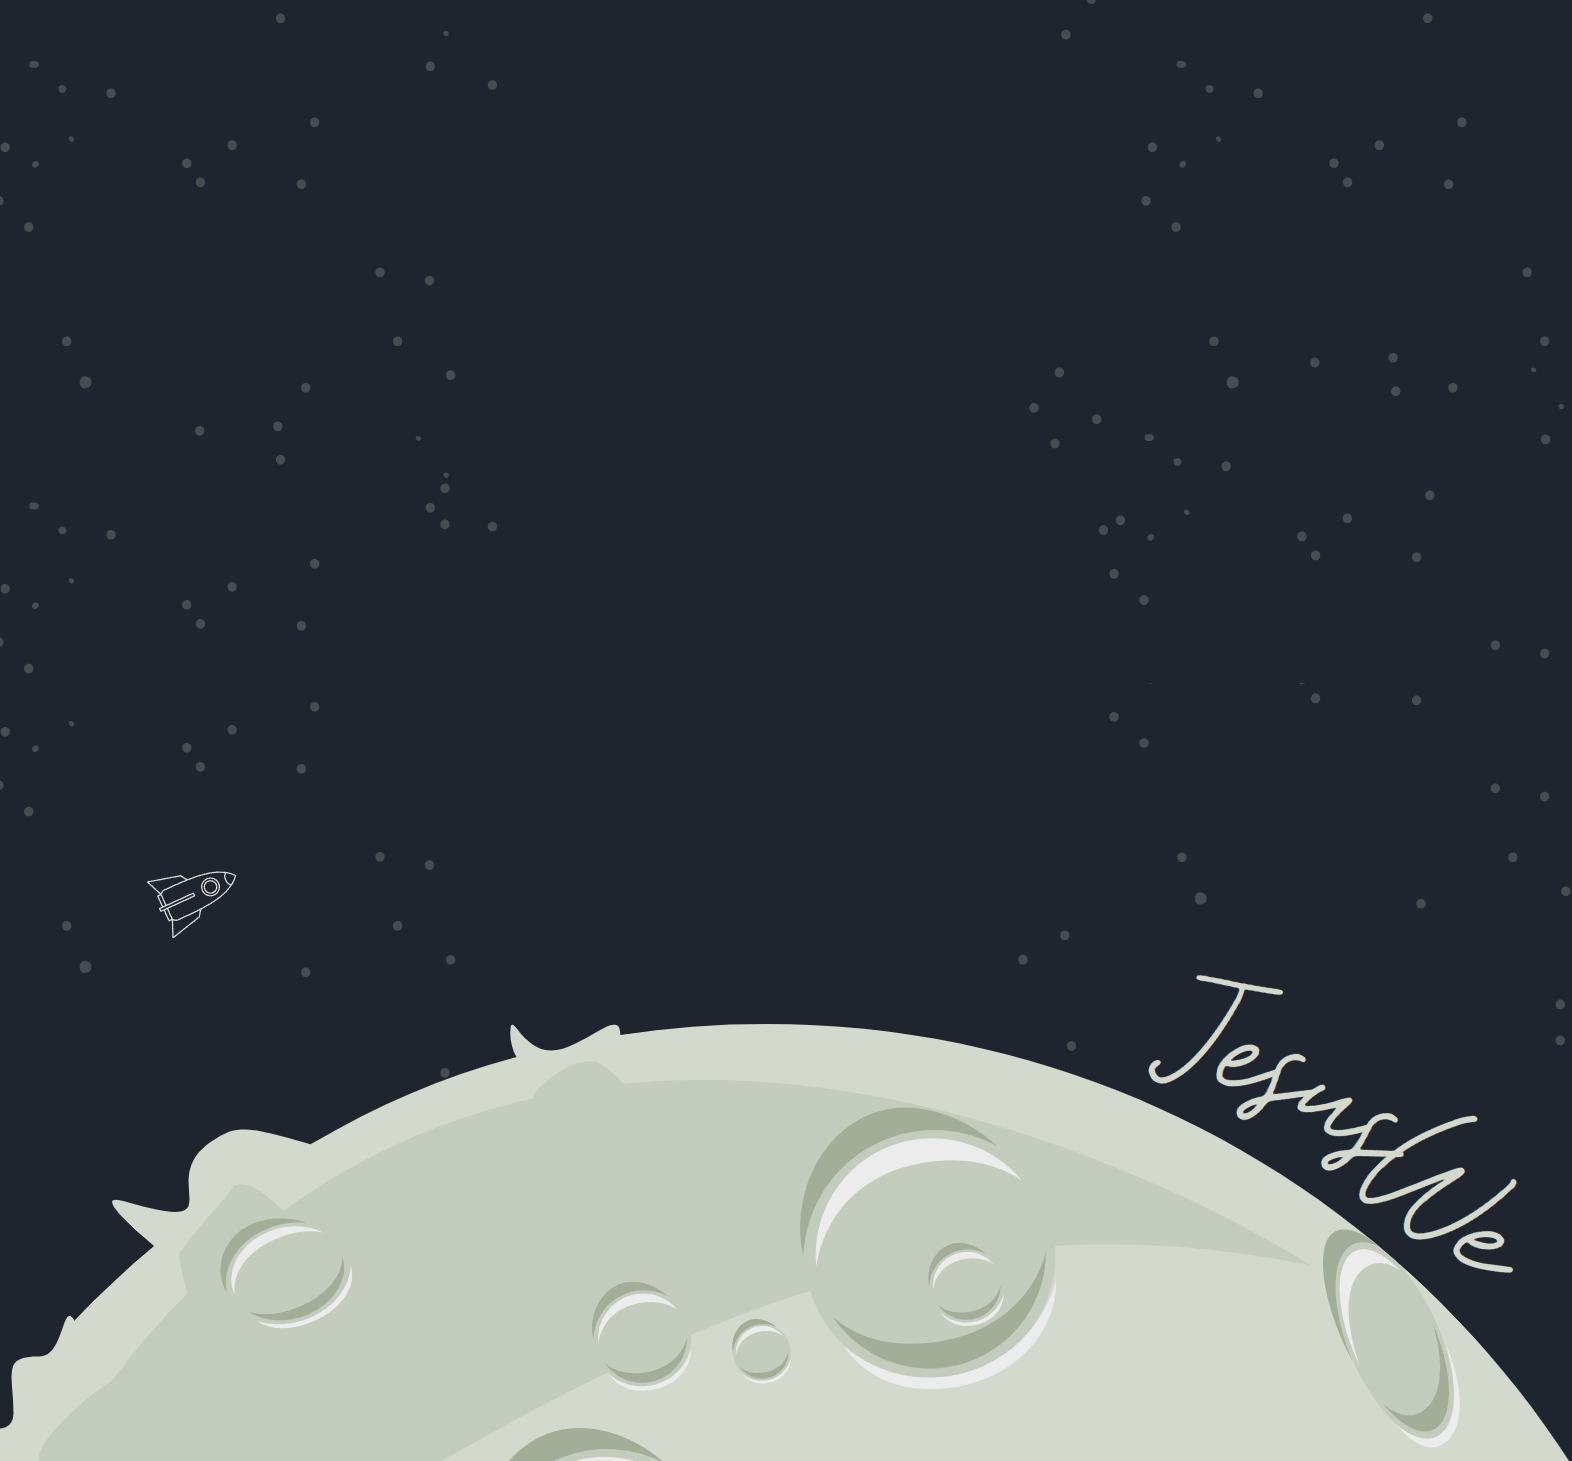
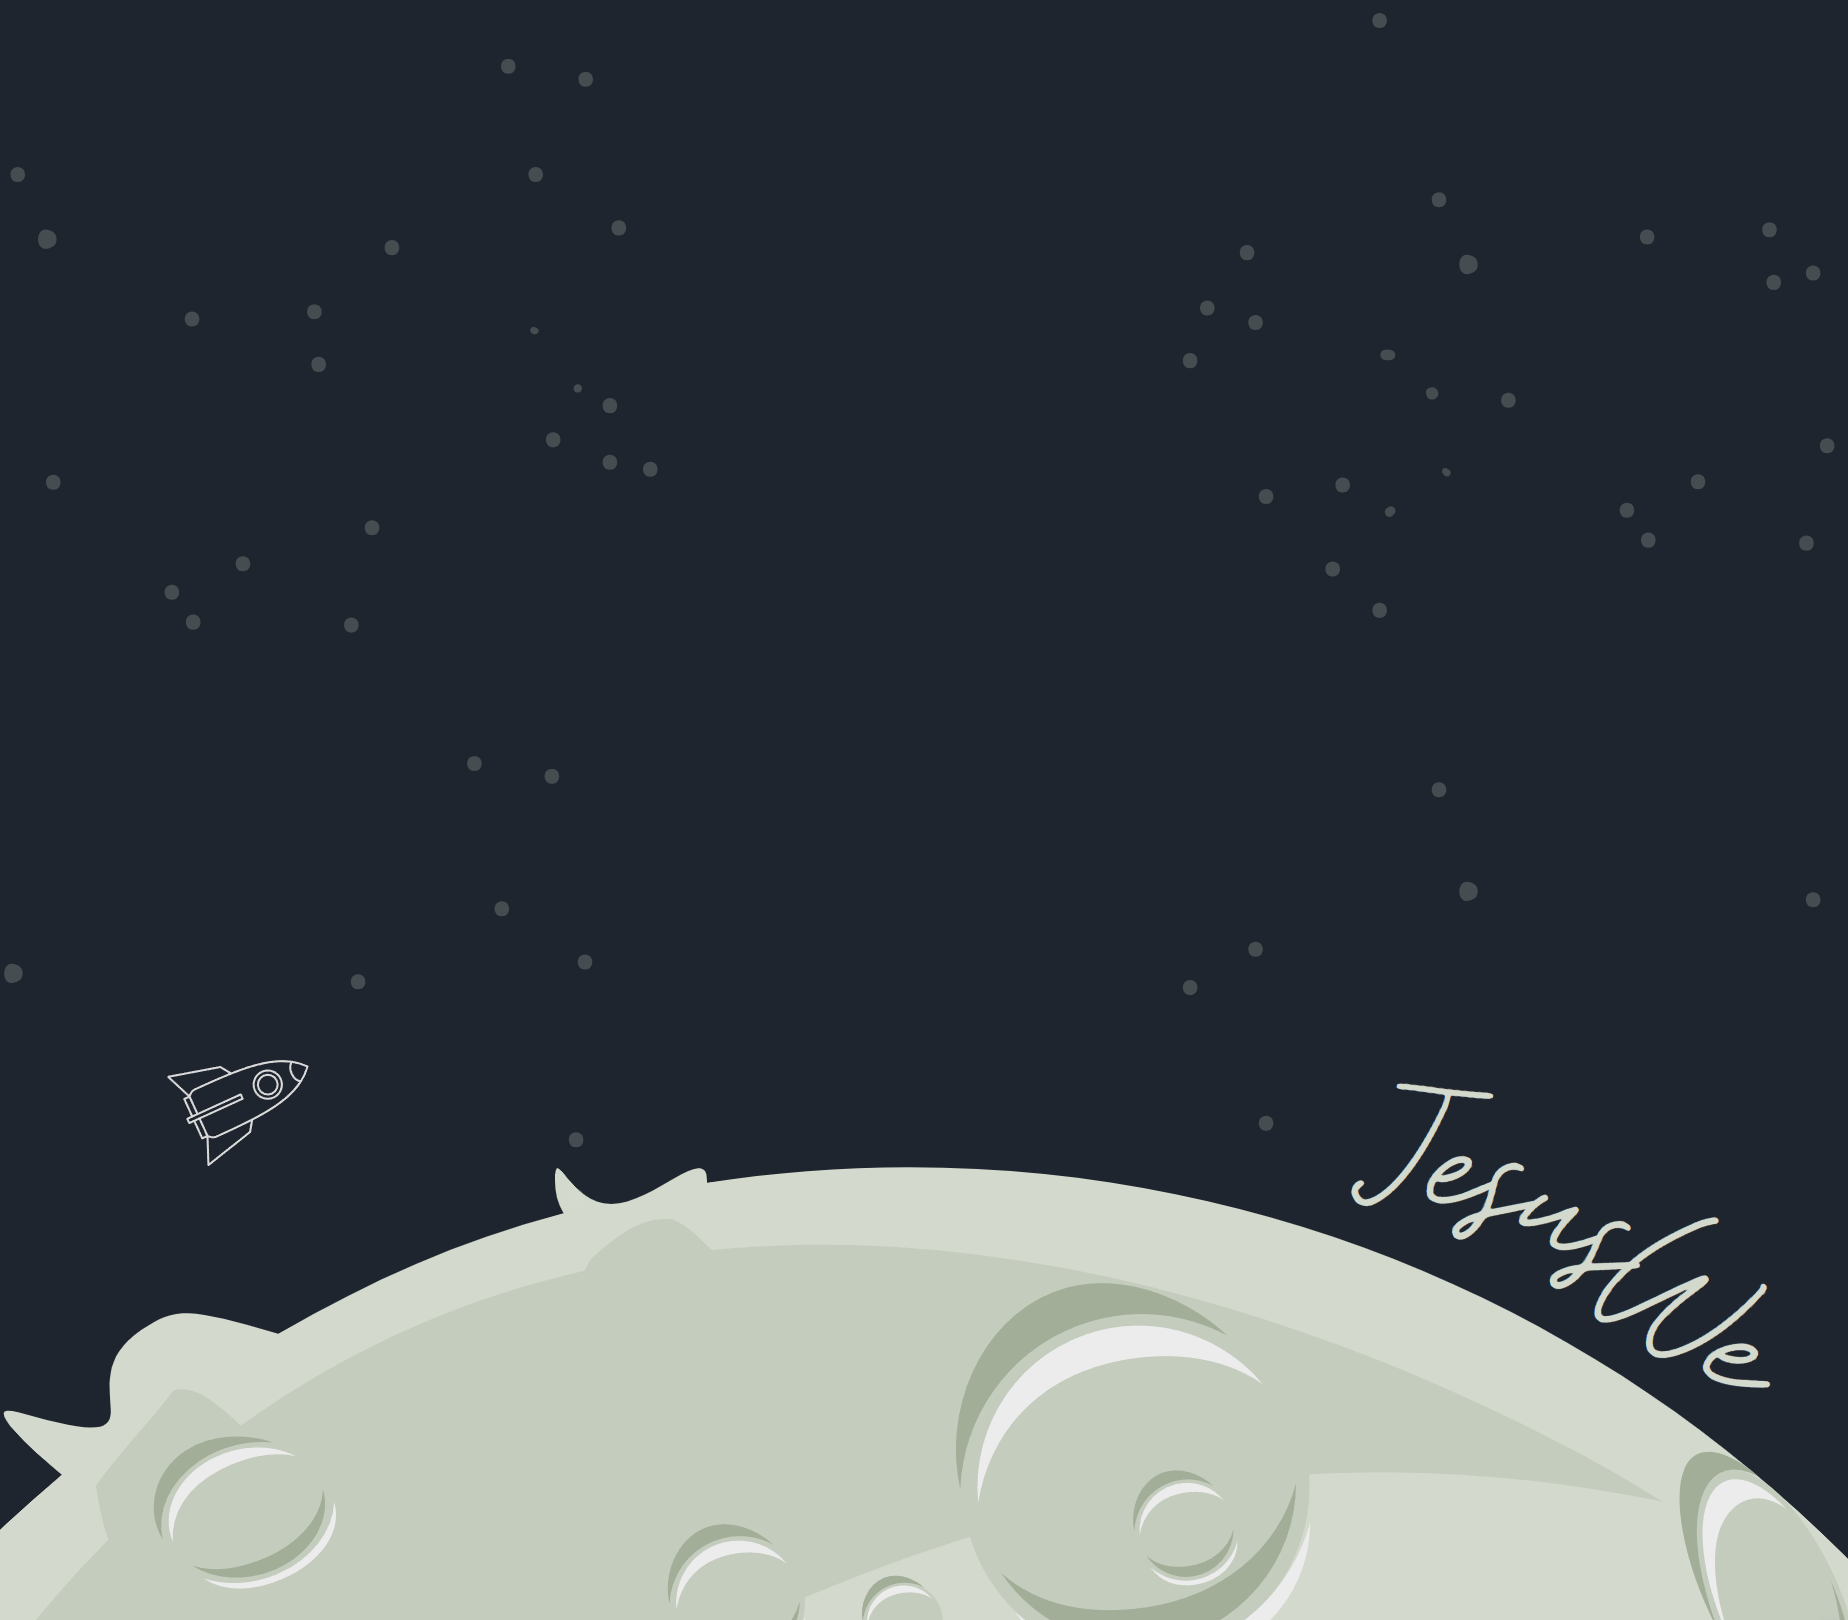
test imgs footer

diff --git a/src/Components/Contact/Contact.css b/src/Components/Contact/Contact.css
@@ -1,6 +1,6 @@
 .section-contact {
   background-color: var(--primary-dark);
-  background-image: url(../../imgs/footerMobile2.png);
+  background-image: url(../../imgs/footerMobile.png);
   background-size: 100% 100%;
   background-position: center;
   background-repeat: no-repeat;
@@ -44,19 +44,27 @@ textarea {
   transform: translateY(-2px);
 }
 
-@media (min-width: 640px) {
+@media (min-width: 550px) {
   .section-contact {
-    background-image: url(../../imgs/footerTablet4.png);
+    background-image: url(../../imgs/footerMobile2.png);
+    height: 900px;
   }
 }
 
 @media (min-width: 800px) {
   .section-contact {
-    background-image: url(../../imgs/footerDesktop.png);
+    background-image: url(../../imgs/footerTablet.png);
   }
 }
 
 @media (min-width: 1200px) {
-  .form-container {
+  .section-contact {
+    background-image: url(../../imgs/footerDesktop.png);
+  }
+}
+
+@media (min-width: 1500px) {
+  .section-contact {
+    background-image: url(../../imgs/footerPc.png);
   }
 }
